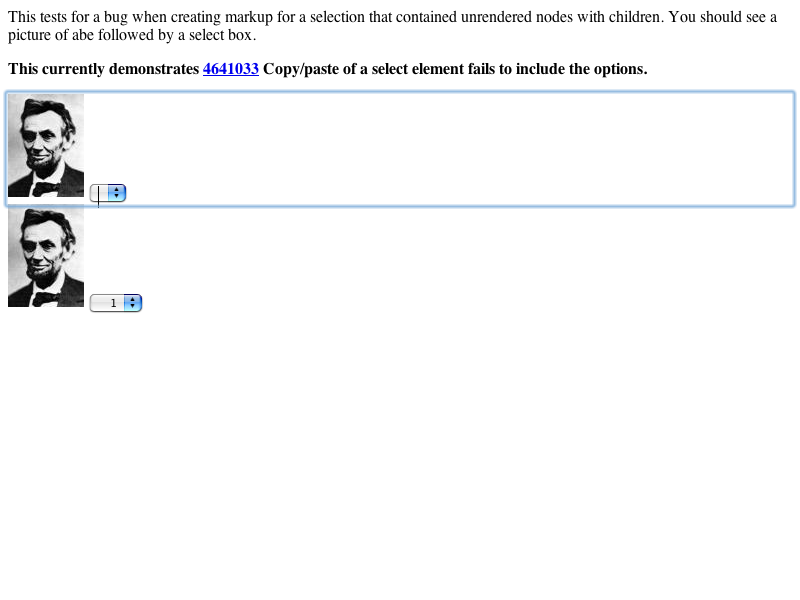
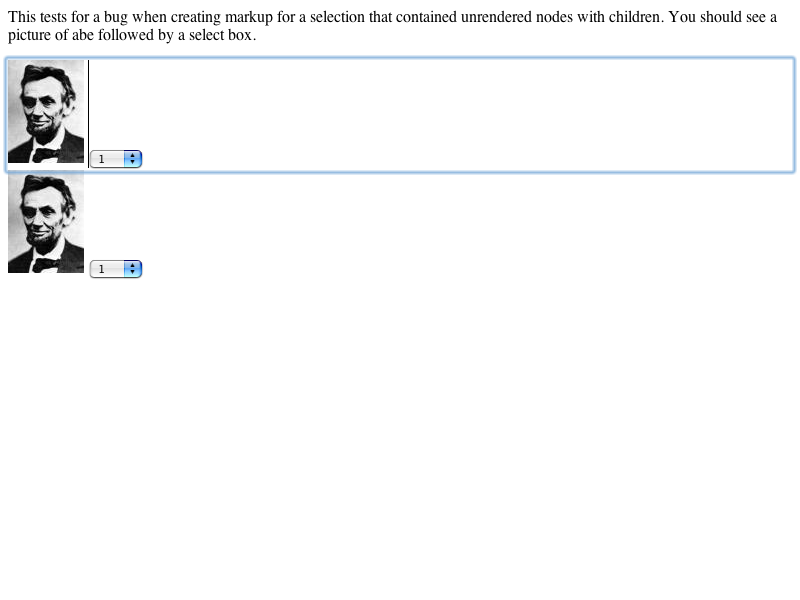
LayoutTests:
Reviewed by darin
        
        <rdar://problem/4062865>
        Copy/paste of a select element fails to include the options

        Updated to reflect fix:
        * editing/pasteboard/4641033-expected.checksum:
        * editing/pasteboard/4641033-expected.png:
        * editing/pasteboard/4641033-expected.txt:
        * editing/pasteboard/4641033.html:
        
        Added:
        * editing/inserting/before-after-input-element-expected.checksum: Added.
        * editing/inserting/before-after-input-element-expected.png: Added.
        * editing/inserting/before-after-input-element-expected.txt: Added.
        * editing/inserting/before-after-input-element.html: Added.
        * editing/pasteboard/input-field-1-expected.checksum: Added.
        * editing/pasteboard/input-field-1-expected.png: Added.
        * editing/pasteboard/input-field-1-expected.txt: Added.
        * editing/pasteboard/input-field-1.html: Added.
        * editing/pasteboard/select-element-1-expected.checksum: Added.
        * editing/pasteboard/select-element-1-expected.png: Added.
        * editing/pasteboard/select-element-1-expected.txt: Added.
        * editing/pasteboard/select-element-1.html: Added.
        * editing/selection/select-element-paragraph-boundary-expected.checksum: Added.
        * editing/selection/select-element-paragraph-boundary-expected.png: Added.
        * editing/selection/select-element-paragraph-boundary-expected.txt: Added.
[…]

Changed region(s): [[0.0, 0.09, 1.0, 0.54]]

diff --git a/editing/pasteboard/select-element-1.html b/editing/pasteboard/select-element-1.html
@@ -1,0 +1,42 @@
+<script>
+function log(str) {
+    var li = document.createElement("li");
+    li.appendChild(document.createTextNode(str));
+    var console = document.getElementById("console");
+    console.appendChild(li);
+}
+function shouldBe(expected, actual) {
+    if (expected != actual)
+        log("Failure. Expected: " + expected + ", Actual: " + actual);
+    else
+        log("Passed");
+}
+</script>
+<p>This tests copy/paste of select elements.  All the options should be included.</p>
+<div id="copy" contenteditable="true">
+    <select id="select">
+        <option>One</option>
+        <option>Two</option>
+        <option>Three</option>
+    </select>
+</div>
+
+<div id="paste" contenteditable="true"></div>
+<ul id="console"></ul>
+<script>
+var copy = document.getElementById("copy");
+copy.focus();
+document.execCommand("SelectAll");
+document.execCommand("Cut");
+
+shouldBe(document.getElementById("select"), null);
+
+var paste = document.getElementById("paste");
+paste.focus();
+document.execCommand("Paste");
+
+var select = document.getElementById("select");
+shouldBe(select.options[0].value, "One");
+shouldBe(select.options[1].value, "Two");
+shouldBe(select.options[2].value, "Three");
+</script>

diff --git a/editing/pasteboard/input-field-1.html b/editing/pasteboard/input-field-1.html
@@ -1,0 +1,30 @@
+<script>
+function log(str) {
+    var li = document.createElement("li");
+    li.appendChild(document.createTextNode(str));
+    var console = document.getElementById("console");
+    console.appendChild(li);
+}
+function shouldBe(expected, actual) {
+    if (expected != actual)
+        log("Failure. Expected: " + expected + ", Actual: " + actual);
+    else
+        log("Passed");
+}
+</script>
+
+<p>This tests Copy/Paste of a input field.</p>
+<div id="div" contenteditable="true"><input type="text"></div>
+<ul id="console"></ul>
+<script>
+var div = document.getElementById("div");
+div.focus();
+document.execCommand("SelectAll");
+
+document.execCommand("Copy");
+var sel = window.getSelection();
+sel.modify("move", "forward", "character");
+document.execCommand("Paste");
+
+shouldBe(document.getElementsByTagName("input").length, 2);
+</script>

diff --git a/editing/pasteboard/4641033.html b/editing/pasteboard/4641033.html
@@ -1,5 +1,4 @@
 <p>This tests for a bug when creating markup for a selection that contained unrendered nodes with children.  You should see a picture of abe followed by a select box.</p>
-<p><b>This currently demonstrates <a href="rdar://problem/4641033">4641033</a> Copy/paste of a select element fails to include the options</a>.</b></p>
 <div id="paste" contenteditable="true"></div>
 
 <img id="start" src="../resources/abe.jpg">

diff --git a/editing/inserting/before-after-input-element.html b/editing/inserting/before-after-input-element.html
@@ -1,0 +1,13 @@
+<p>This tests text insertion before/after an input element.</p>
+<div id="div" contenteditable="true"><input type="text"></div>
+
+<script>
+var div = document.getElementById("div");
+var sel = window.getSelection();
+sel.setPosition(div, 0);
+
+document.execCommand("InsertText", false, "Hello");
+sel.setPosition(div, div.childNodes.length);
+
+document.execCommand("InsertText", false, "World");
+</script>

diff --git a/editing/selection/select-element-paragraph-boundary.html b/editing/selection/select-element-paragraph-boundary.html
@@ -1,0 +1,10 @@
+<p>This tests paragraphBoundary selection navigation.  The caret should be at the end of the paragraph below, just after the select box.</p>
+<div id="div" contenteditable="true"><select><option>1</option></select></div>
+
+<script>
+var sel = window.getSelection();
+var div = document.getElementById("div");
+
+sel.setPosition(div, 0);
+sel.modify("move", "forward", "paragraphBoundary");
+</script>
